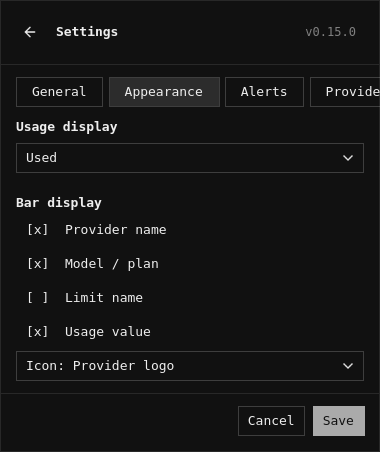
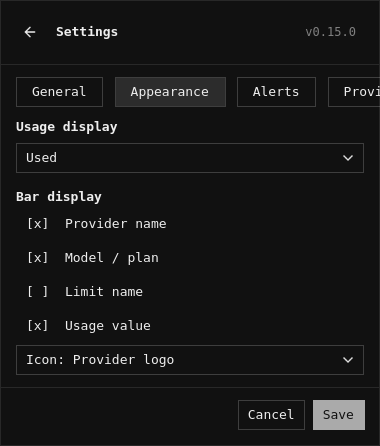
fix(settings): unify tab and section spacing

diff --git a/packages/lib/macos/AIStatus.swift b/packages/lib/macos/AIStatus.swift
@@ -1089,21 +1089,36 @@ struct SettingsNavigationButton: View {
 
 struct SettingsNavigation: View {
     @ObservedObject var model: Model
+    private let tabGap: CGFloat = 12
     var body: some View {
         ScrollViewReader { scroll in
             ScrollView(.horizontal, showsIndicators: false) {
-                HStack(spacing: 4) {
+                HStack(spacing: tabGap) {
                     ForEach(SettingsSection.allCases) { section in
                         SettingsNavigationButton(section: section, selected: model.settingsSection == section,
                                                  action: { model.showSettingsSection(section) },
                                                  focusChanged: { scroll.scrollTo(section.id, anchor: .center) })
                             .id(section.id)
                     }
-                }.padding(.horizontal, 16).padding(.vertical, 11)
-            }.frame(height: 56)
+                }.padding(.horizontal, 16).padding(.vertical, tabGap)
+            }.frame(height: 34 + tabGap * 2)
                 .onAppear { scroll.scrollTo(model.settingsSection.id, anchor: .center) }
                 .onChange(of: model.settingsSection) { scroll.scrollTo($0.id, anchor: .center) }
         }.disabled(model.settingsSaving)
+    }
+}
+
+struct SettingsHeading: View {
+    let title: String
+    var detail: String? = nil
+    var body: some View {
+        VStack(alignment: .leading, spacing: 4) {
+            Text(title).foregroundColor(Palette.bright)
+            if let detail = detail {
+                Text(detail).font(.custom("GeistMono-Regular", size: 11))
+                    .fixedSize(horizontal: false, vertical: true)
+            }
+        }
     }
 }
 
@@ -1112,11 +1127,9 @@ struct SettingsPage: View {
     private let fields = [("show_provider", "Provider name"), ("show_model", "Model / plan"),
                           ("show_metric", "Limit name"), ("show_pct", "Usage value")]
     var body: some View {
-        VStack(alignment: .leading, spacing: 22) {
-            VStack(alignment: .leading, spacing: 6) {
-                Text(model.settingsSection.title).foregroundColor(Palette.bright)
-                Text(model.settingsSection.detail).font(.custom("GeistMono-Regular", size: 11))
-            }
+        VStack(alignment: .leading, spacing: 16) {
+            SettingsHeading(title: model.settingsSection.title,
+                            detail: model.settingsSection == .general ? nil : model.settingsSection.detail)
             switch model.settingsSection {
             case .general:
                 general
@@ -1124,8 +1137,7 @@ struct SettingsPage: View {
                 appearance
             case .alerts:
                 VStack(alignment: .leading, spacing: 8) {
-                    Text("Active account & limit").foregroundColor(Palette.bright)
-                    Text(model.settingsSelectionLabel).fixedSize(horizontal: false, vertical: true)
+                    SettingsHeading(title: "Active account & limit", detail: model.settingsSelectionLabel)
                     HoverButton(bordered: true, action: { model.showSettingsSection(.general) }) {
                         HStack { Text("Change in General"); Spacer(); PanelIcon(name: "arrow-right") }
                     }
@@ -1138,9 +1150,9 @@ struct SettingsPage: View {
     }
 
     private var general: some View {
-        VStack(alignment: .leading, spacing: 22) {
+        VStack(alignment: .leading, spacing: 16) {
             VStack(alignment: .leading, spacing: 8) {
-                Text("Active provider & limit").foregroundColor(Palette.bright)
+                SettingsHeading(title: "Active provider & limit", detail: SettingsSection.general.detail)
                 Picker("Active provider & limit", selection: Binding(get: { model.draft.selected }, set: {
                     model.draft.selected = $0; model.draft.saved = false
                 })) {
@@ -1158,9 +1170,9 @@ struct SettingsPage: View {
     }
 
     private var appearance: some View {
-        VStack(alignment: .leading, spacing: 22) {
+        VStack(alignment: .leading, spacing: 16) {
             VStack(alignment: .leading, spacing: 8) {
-                Text("Usage display").foregroundColor(Palette.bright)
+                SettingsHeading(title: "Usage display")
                 Picker("Usage display", selection: Binding(get: { model.draft.usageDisplay }, set: {
                     model.draft.usageDisplay = $0; model.draft.saved = false
                 })) {
@@ -1169,7 +1181,7 @@ struct SettingsPage: View {
                 }.labelsHidden().pickerStyle(.menu).frame(maxWidth: .infinity, alignment: .leading)
             }
             VStack(alignment: .leading, spacing: 8) {
-                Text("Bar display").foregroundColor(Palette.bright)
+                SettingsHeading(title: "Bar display")
                 ForEach(fields, id: \.0) { key, label in
                     Toggle(label, isOn: Binding(get: { model.draft.display[key] ?? false }, set: {
                         model.draft.display[key] = $0; model.draft.saved = false
@@ -1212,7 +1224,7 @@ struct NotificationSettingsView: View {
     var body: some View {
         VStack(alignment: .leading, spacing: 8) {
             Group {
-                Text("Quota notifications").foregroundColor(Palette.bright)
+                SettingsHeading(title: "Quota notifications")
                 Toggle("Enable quota alerts", isOn: Binding(get: { model.draft.notifications.enabled }, set: {
                     model.draft.notifications.enabled = $0; model.draft.saved = false
                 })).toggleStyle(.checkbox)

diff --git a/packages/lib/quickshell/SettingsPage.qml b/packages/lib/quickshell/SettingsPage.qml
@@ -93,7 +93,7 @@ Column {
     readonly property var selectedChoice: choices.find(item => item.provider === selected.provider && item.idx === selected.idx && item.metric === selected.metric) || null
     readonly property string selectedLabel: selectedChoice ? selectedChoice.groupLabel + " · " + selectedChoice.label : "Choose a provider and limit"
     readonly property bool valid: enabledProviders.length > 0 && Object.keys(display).some(key => display[key]) && ["used", "remaining"].indexOf(usageDisplay) !== -1 && choices.some(item => item.provider === selected.provider && item.idx === selected.idx && item.metric === selected.metric) && validThresholds(alertThresholds) && (alertSettings.rules || []).every(rule => validThresholds(alertRuleTexts[rule.connection_id + "\u001f" + rule.metric] !== undefined ? alertRuleTexts[rule.connection_id + "\u001f" + rule.metric] : rule.thresholds.join(",")))
-    spacing: Style.space(22)
+    spacing: Style.space(16)
     enabled: !Plugin.Model.settingsSaving
     onOrderChanged: saved = false
     onEnabledProvidersChanged: saved = false
@@ -221,6 +221,23 @@ Column {
         font.pixelSize: Style.font.body
         wrapMode: Text.WordWrap
     }
+    component SectionHeading: Column {
+        id: heading
+        property string title: ""
+        property string description: ""
+        width: parent.width
+        spacing: Style.space(4)
+        Label {
+            text: heading.title
+            font.bold: true
+        }
+        Label {
+            visible: text !== ""
+            text: heading.description
+            opacity: 0.5
+            font.pixelSize: Style.font.caption
+        }
+    }
     component Button: Plugin.PanelButton {
         foreground: root.foreground
         fontFamily: root.fontFamily
@@ -288,8 +305,10 @@ Column {
         visible: root.section === "general"
         width: parent.width
         spacing: Style.space(8)
-        Label { text: "Active provider & limit"; font.bold: true }
-        Label { text: "Choose the account and limit shown in the bar."; opacity: 0.5; font.pixelSize: Style.font.caption }
+        SectionHeading {
+            title: "Active provider & limit"
+            description: "Choose the account and limit shown in the bar."
+        }
         Plugin.PanelSelect {
             id: providerSelector
             objectName: "active-provider"
@@ -313,7 +332,7 @@ Column {
         visible: root.section === "appearance"
         width: parent.width
         spacing: Style.space(8)
-        Label { text: "Usage display"; font.bold: true }
+        SectionHeading { title: "Usage display" }
         Plugin.PanelSelect {
             id: usageDisplaySelector
             objectName: "usage-display"
@@ -332,7 +351,7 @@ Column {
         visible: root.section === "appearance"
         width: parent.width
         spacing: Style.space(4)
-        Label { text: "Bar display"; font.bold: true }
+        SectionHeading { title: "Bar display" }
         Repeater {
             model: [
                 {key: "show_provider", label: "Provider name"},
@@ -374,8 +393,10 @@ Column {
         visible: root.section === "alerts"
         width: parent.width
         spacing: Style.space(8)
-        Label { text: "Quota alerts"; font.bold: true }
-        Label { text: "Alerts use quota consumed. Recovery requires a successful fresh check of all applicable limits."; opacity: 0.5; font.pixelSize: Style.font.caption }
+        SectionHeading {
+            title: "Quota alerts"
+            description: "Alerts use quota consumed. Recovery requires a successful fresh check of all applicable limits."
+        }
         Label { text: "Selected account & limit: " + root.selectedLabel; font.pixelSize: Style.font.caption }
         Button {
             id: alertAccountButton
@@ -451,11 +472,9 @@ Column {
         visible: root.section === "providers"
         width: parent.width
         spacing: Style.space(6)
-        Label { text: "Providers"; font.bold: true }
-        Label {
-            text: "Enable providers and set their order in the usage page."
-            opacity: 0.5
-            font.pixelSize: Style.font.caption
+        SectionHeading {
+            title: "Providers"
+            description: "Enable providers and set their order in the usage page."
         }
         Repeater {
             id: providerRows

diff --git a/packages/lib/quickshell/Panel.qml b/packages/lib/quickshell/Panel.qml
@@ -23,6 +23,7 @@ Ui.Panel {
     readonly property var creditProvider: creditSelection ? Plugin.Model.snapshot.providers.find(entry => entry.id === creditSelection.id && entry.idx === creditSelection.idx) || null : null
     readonly property var creditEntry: creditSelection && creditProvider ? (creditProvider.monetaryCredits || []).find(entry => entry.id === creditSelection.creditId) || null : null
     readonly property string panelFont: bar ? bar.fontFamily : Style.font.family
+    readonly property real settingsTabGap: Style.space(12)
 
     component IconButton: Plugin.PanelIconButton {
         bar: root.bar
@@ -293,7 +294,7 @@ Ui.Panel {
                 anchors.top: divider.bottom
                 x: -panel.padding
                 width: parent.width + panel.padding * 2
-                height: sectionTabs.height + Style.space(12)
+                height: sectionTabs.height + root.settingsTabGap
                 contentWidth: sectionTabs.width + panel.padding * 2
                 contentHeight: height
                 clip: true
@@ -329,8 +330,8 @@ Ui.Panel {
                 Row {
                     id: sectionTabs
                     x: panel.padding
-                    y: Style.space(12)
-                    spacing: Style.space(6)
+                    y: root.settingsTabGap
+                    spacing: root.settingsTabGap
                     Repeater {
                         id: sectionButtons
                         model: settings.sections

diff --git a/packages/lib/src/core/tray.py b/packages/lib/src/core/tray.py
@@ -793,6 +793,23 @@ class UsageWorker(QObject):
             self.finished.emit(data)
 
 
+class SettingsHeading(QWidget):
+    """A compact title and optional description shared by Settings sections."""
+    def __init__(self, title, description=None, parent=None):
+        super().__init__(parent)
+        layout = QVBoxLayout(self)
+        layout.setContentsMargins(0, 0, 0, 0)
+        layout.setSpacing(4)
+        self.title = plain_label(title, "#eeeeee")
+        self.title.setWordWrap(True)
+        layout.addWidget(self.title)
+        self.description = None
+        if description is not None:
+            self.description = plain_label(description, "#666666")
+            self.description.setWordWrap(True)
+            layout.addWidget(self.description)
+
+
 class SettingsNavigation(QScrollArea):
     """A single row of tabs that scrolls independently from Settings content."""
     def __init__(self, parent=None):
@@ -867,7 +884,7 @@ class ProviderSettings(QWidget):
         navigation_content = QWidget()
         navigation_layout = QHBoxLayout(navigation_content)
         navigation_layout.setContentsMargins(16, 12, 16, 0)
-        navigation_layout.setSpacing(4)
+        navigation_layout.setSpacing(12)
         navigation_layout.setSizeConstraint(QLayout.SizeConstraint.SetFixedSize)
         self.navigation.setWidget(navigation_content)
         self.section_group = QButtonGroup(self)
@@ -896,10 +913,7 @@ class ProviderSettings(QWidget):
         self.navigation.setFixedHeight(navigation_content.sizeHint().height())
         layout.addStretch()
         general = self.sections["general"].layout()
-        general.addWidget(plain_label("Active provider & limit", "#eeeeee"))
-        hint = plain_label("Choose the account and limit shown in the bar.", "#666666")
-        hint.setWordWrap(True)
-        general.addWidget(hint)
+        general.addWidget(SettingsHeading("Active provider & limit", "Choose the account and limit shown in the bar."))
         self.active = QComboBox()
         self.active.setIconSize(QSize(16, 16))
         self.active.setAccessibleName("Active provider and limit")
@@ -908,21 +922,21 @@ class ProviderSettings(QWidget):
         self.startup.setVisible(paths.IS_WINDOWS)
         self.startup.setChecked(startup_enabled())
         general.addWidget(self.startup)
-        general.addSpacing(14)
+        general.addSpacing(8)
         self.about_button = QPushButton("About AI Status")
         self.about_button.clicked.connect(self.about_requested)
         general.addWidget(self.about_button)
         appearance = self.sections["appearance"].layout()
         selected = state.load_selected() or {}
-        appearance.addWidget(plain_label("Usage display", "#eeeeee"))
+        appearance.addWidget(SettingsHeading("Usage display"))
         self.usage_display = QComboBox()
         self.usage_display.setAccessibleName("Usage display")
         for value, label in (("used", "Used"), ("remaining", "Remaining")):
             self.usage_display.addItem(label, value)
         self.usage_display.setCurrentIndex(self.usage_display.findData(state.get_usage_display(selected)))
         appearance.addWidget(self.usage_display)
-        appearance.addSpacing(14)
-        appearance.addWidget(plain_label("Bar display", "#eeeeee"))
+        appearance.addSpacing(8)
+        appearance.addWidget(SettingsHeading("Bar display"))
         self.display = {}
         for key, label, default in (("show_provider", "Provider name", True),
                                     ("show_model", "Model / plan", True),
@@ -939,10 +953,7 @@ class ProviderSettings(QWidget):
         self.icon_mode.setCurrentIndex(self.icon_mode.findData(state.get_icon_mode(selected)))
         appearance.addWidget(self.icon_mode)
         providers = self.sections["providers"].layout()
-        providers.addWidget(plain_label("Providers", "#eeeeee"))
-        hint = plain_label("Enable providers and set their order.", "#666666")
-        hint.setWordWrap(True)
-        providers.addWidget(hint)
+        providers.addWidget(SettingsHeading("Providers", "Enable providers and set their order."))
         self.providers = ProviderList()
         enabled = config.enabled_connection_order()
         available = config.available_connections()
@@ -1024,15 +1035,14 @@ class ProviderSettings(QWidget):
             }
             for rule in self.notification_settings.get("rules", [])
         }
-        layout.addWidget(plain_label("Active account & limit", "#eeeeee"))
-        self.notification_rule_label = plain_label("", "#666666")
-        self.notification_rule_label.setWordWrap(True)
-        layout.addWidget(self.notification_rule_label)
+        heading = SettingsHeading("Active account & limit", "")
+        self.notification_rule_label = heading.description
+        layout.addWidget(heading)
         self.notification_change_limit = QPushButton("Change in General")
         self.notification_change_limit.clicked.connect(self.change_active_limit)
         layout.addWidget(self.notification_change_limit)
-        layout.addSpacing(14)
-        layout.addWidget(plain_label("Quota notifications", "#eeeeee"))
+        layout.addSpacing(8)
+        layout.addWidget(SettingsHeading("Quota notifications"))
         self.notifications_enabled = QCheckBox("Notify before quota limits")
         self.notifications_enabled.setChecked(self.notification_settings["enabled"])
         layout.addWidget(self.notifications_enabled)
@@ -1077,8 +1087,8 @@ class ProviderSettings(QWidget):
         work_times.addWidget(self.notification_work_start)
         work_times.addWidget(self.notification_work_end)
         layout.addLayout(work_times)
-        layout.addSpacing(14)
-        layout.addWidget(plain_label("Account & limit override", "#eeeeee"))
+        layout.addSpacing(8)
+        layout.addWidget(SettingsHeading("Account & limit override"))
         self.notification_rule_custom = QCheckBox("Customize this account and limit")
         layout.addWidget(self.notification_rule_custom)
         self.notification_rule_enabled = QCheckBox("Notify for this account and limit")

diff --git a/docs/screenshots/settings-submenus/README.md b/docs/screenshots/settings-submenus/README.md
@@ -10,6 +10,8 @@ The strip scrolls horizontally when the tabs exceed the available width and
 reveals the selected tab. It remains above the scrolling section content;
 the panel header and Save/Cancel actions stay visible as well. The scrolling
 viewports reach the panel edges and separators, with padding inside their content.
+The preview fixtures use 12 px above and between tabs, 4 px between section
+titles and descriptions, and 16 px between General's selector and About action.
 
 - `quickshell-*.png` uses Qt Quick Test's offscreen software renderer and the
   unchanged dark shell fixtures in `packages/lib/tests/qml/`. The fixtures use a
